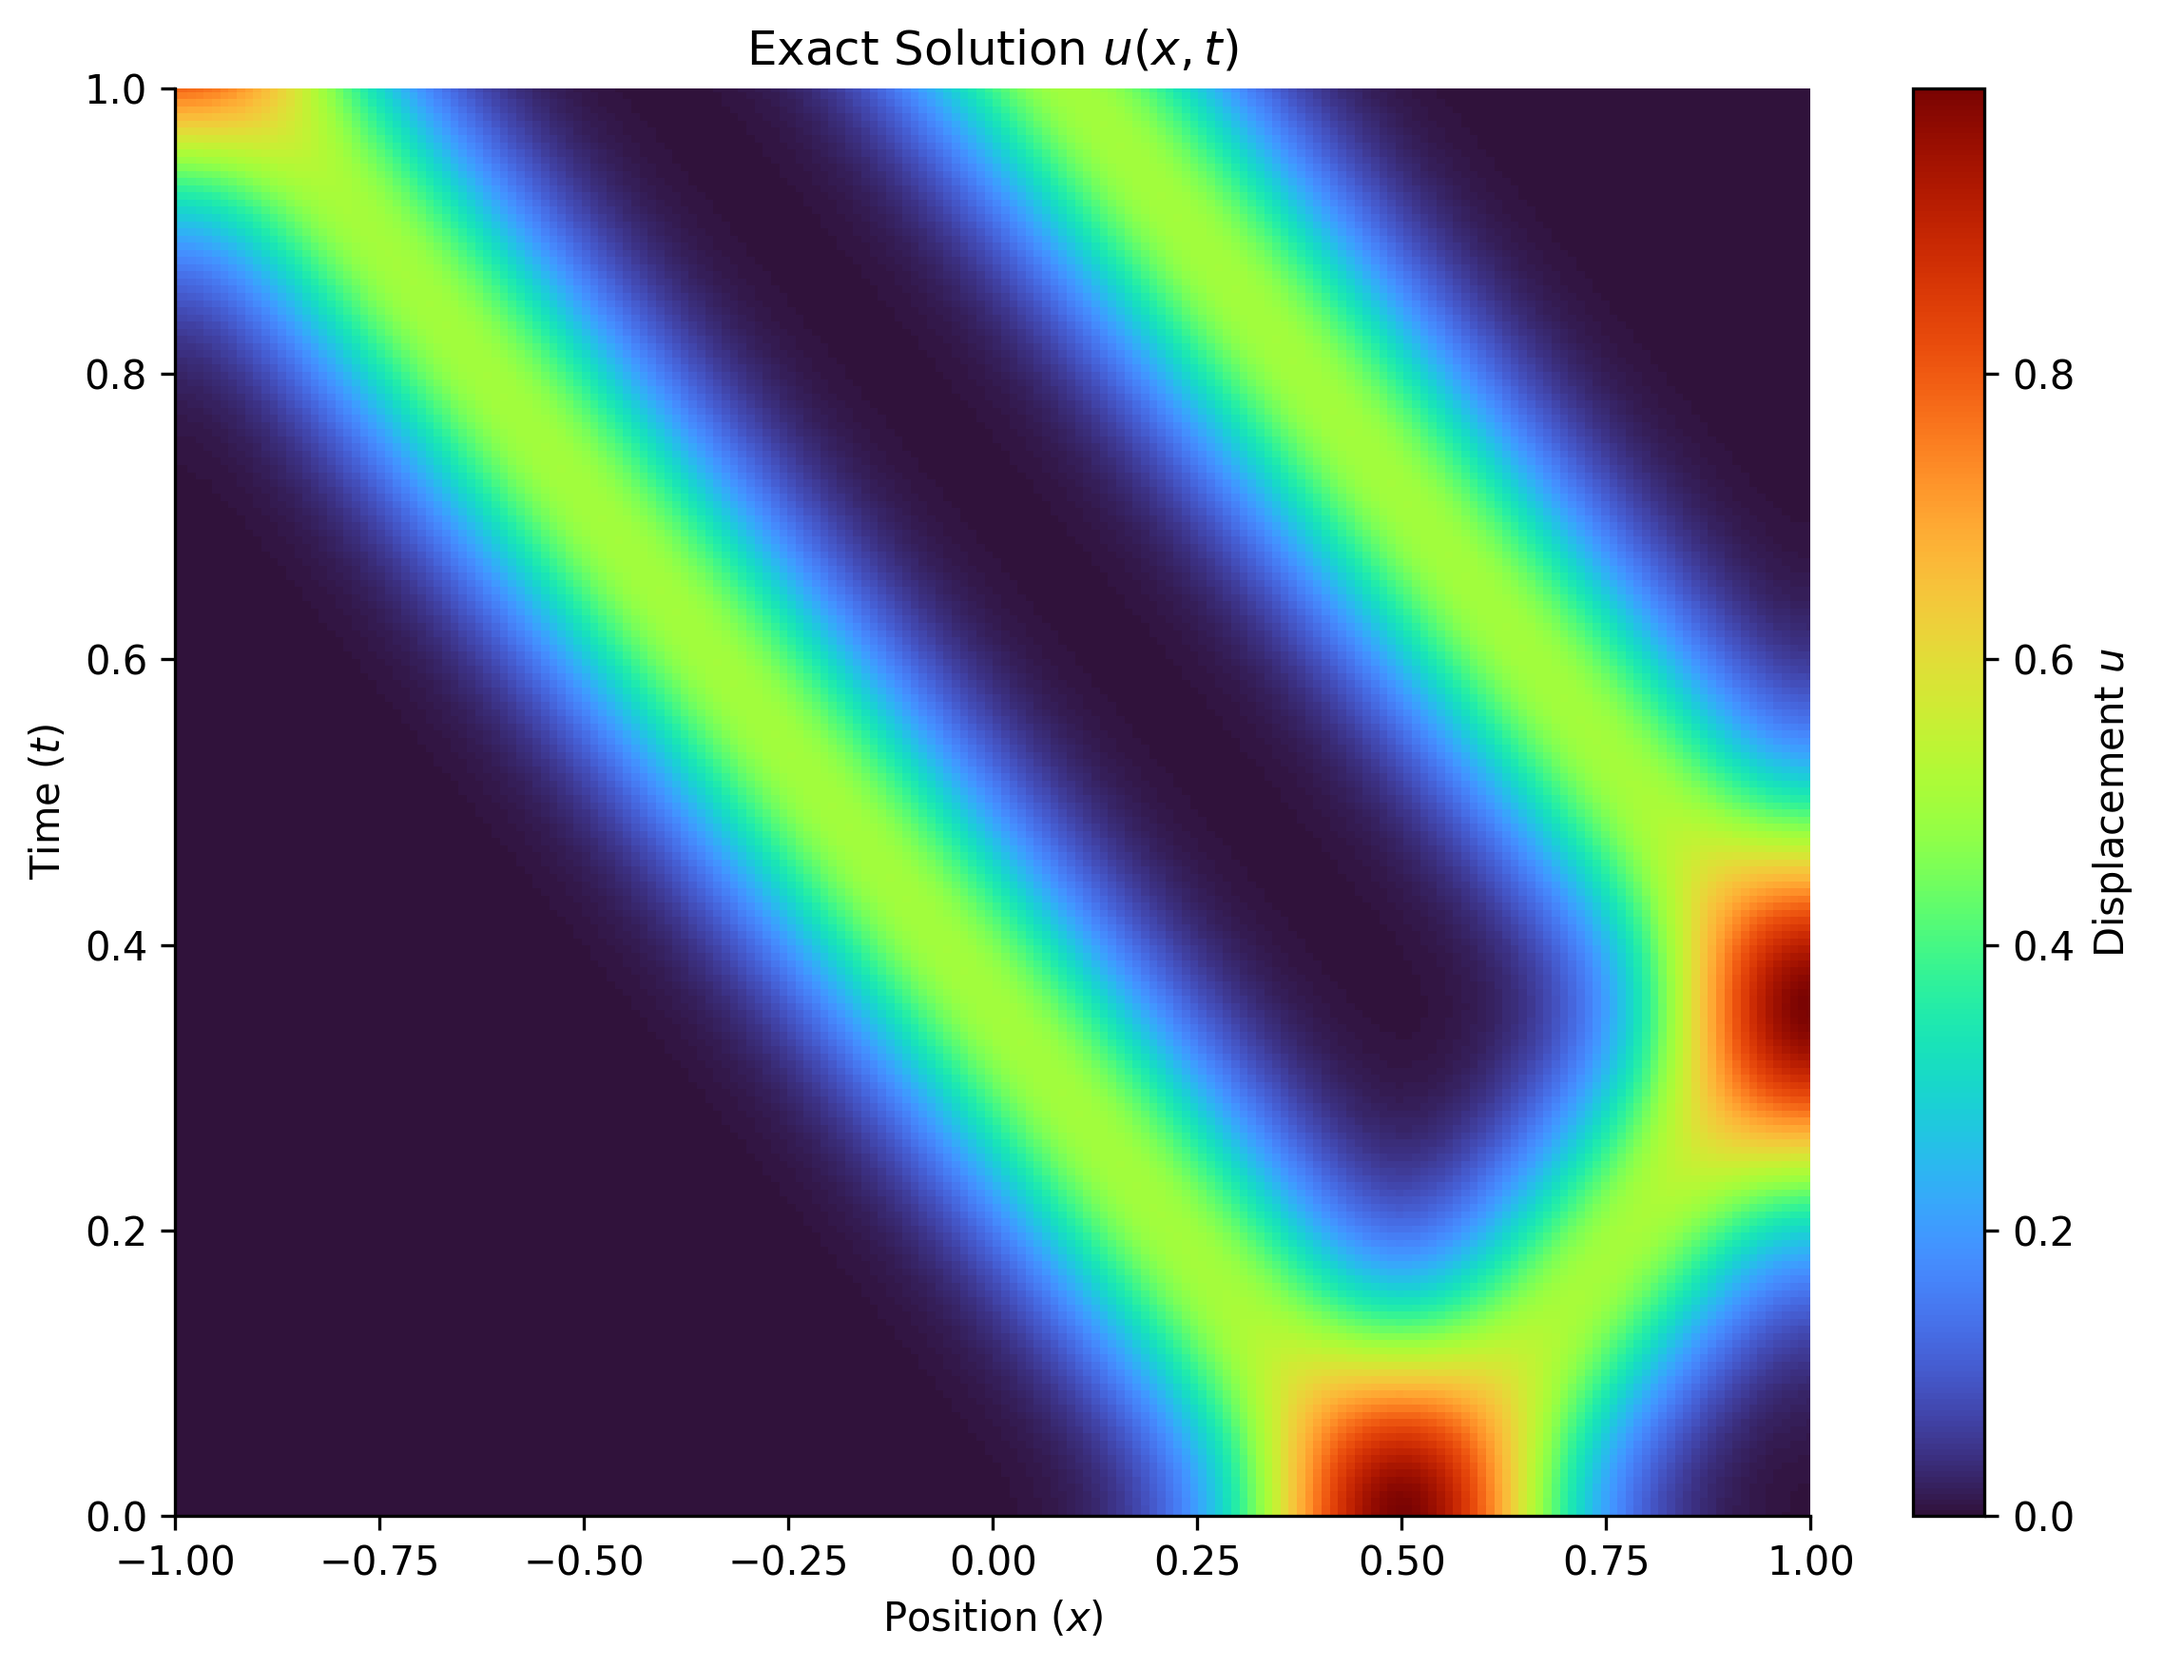
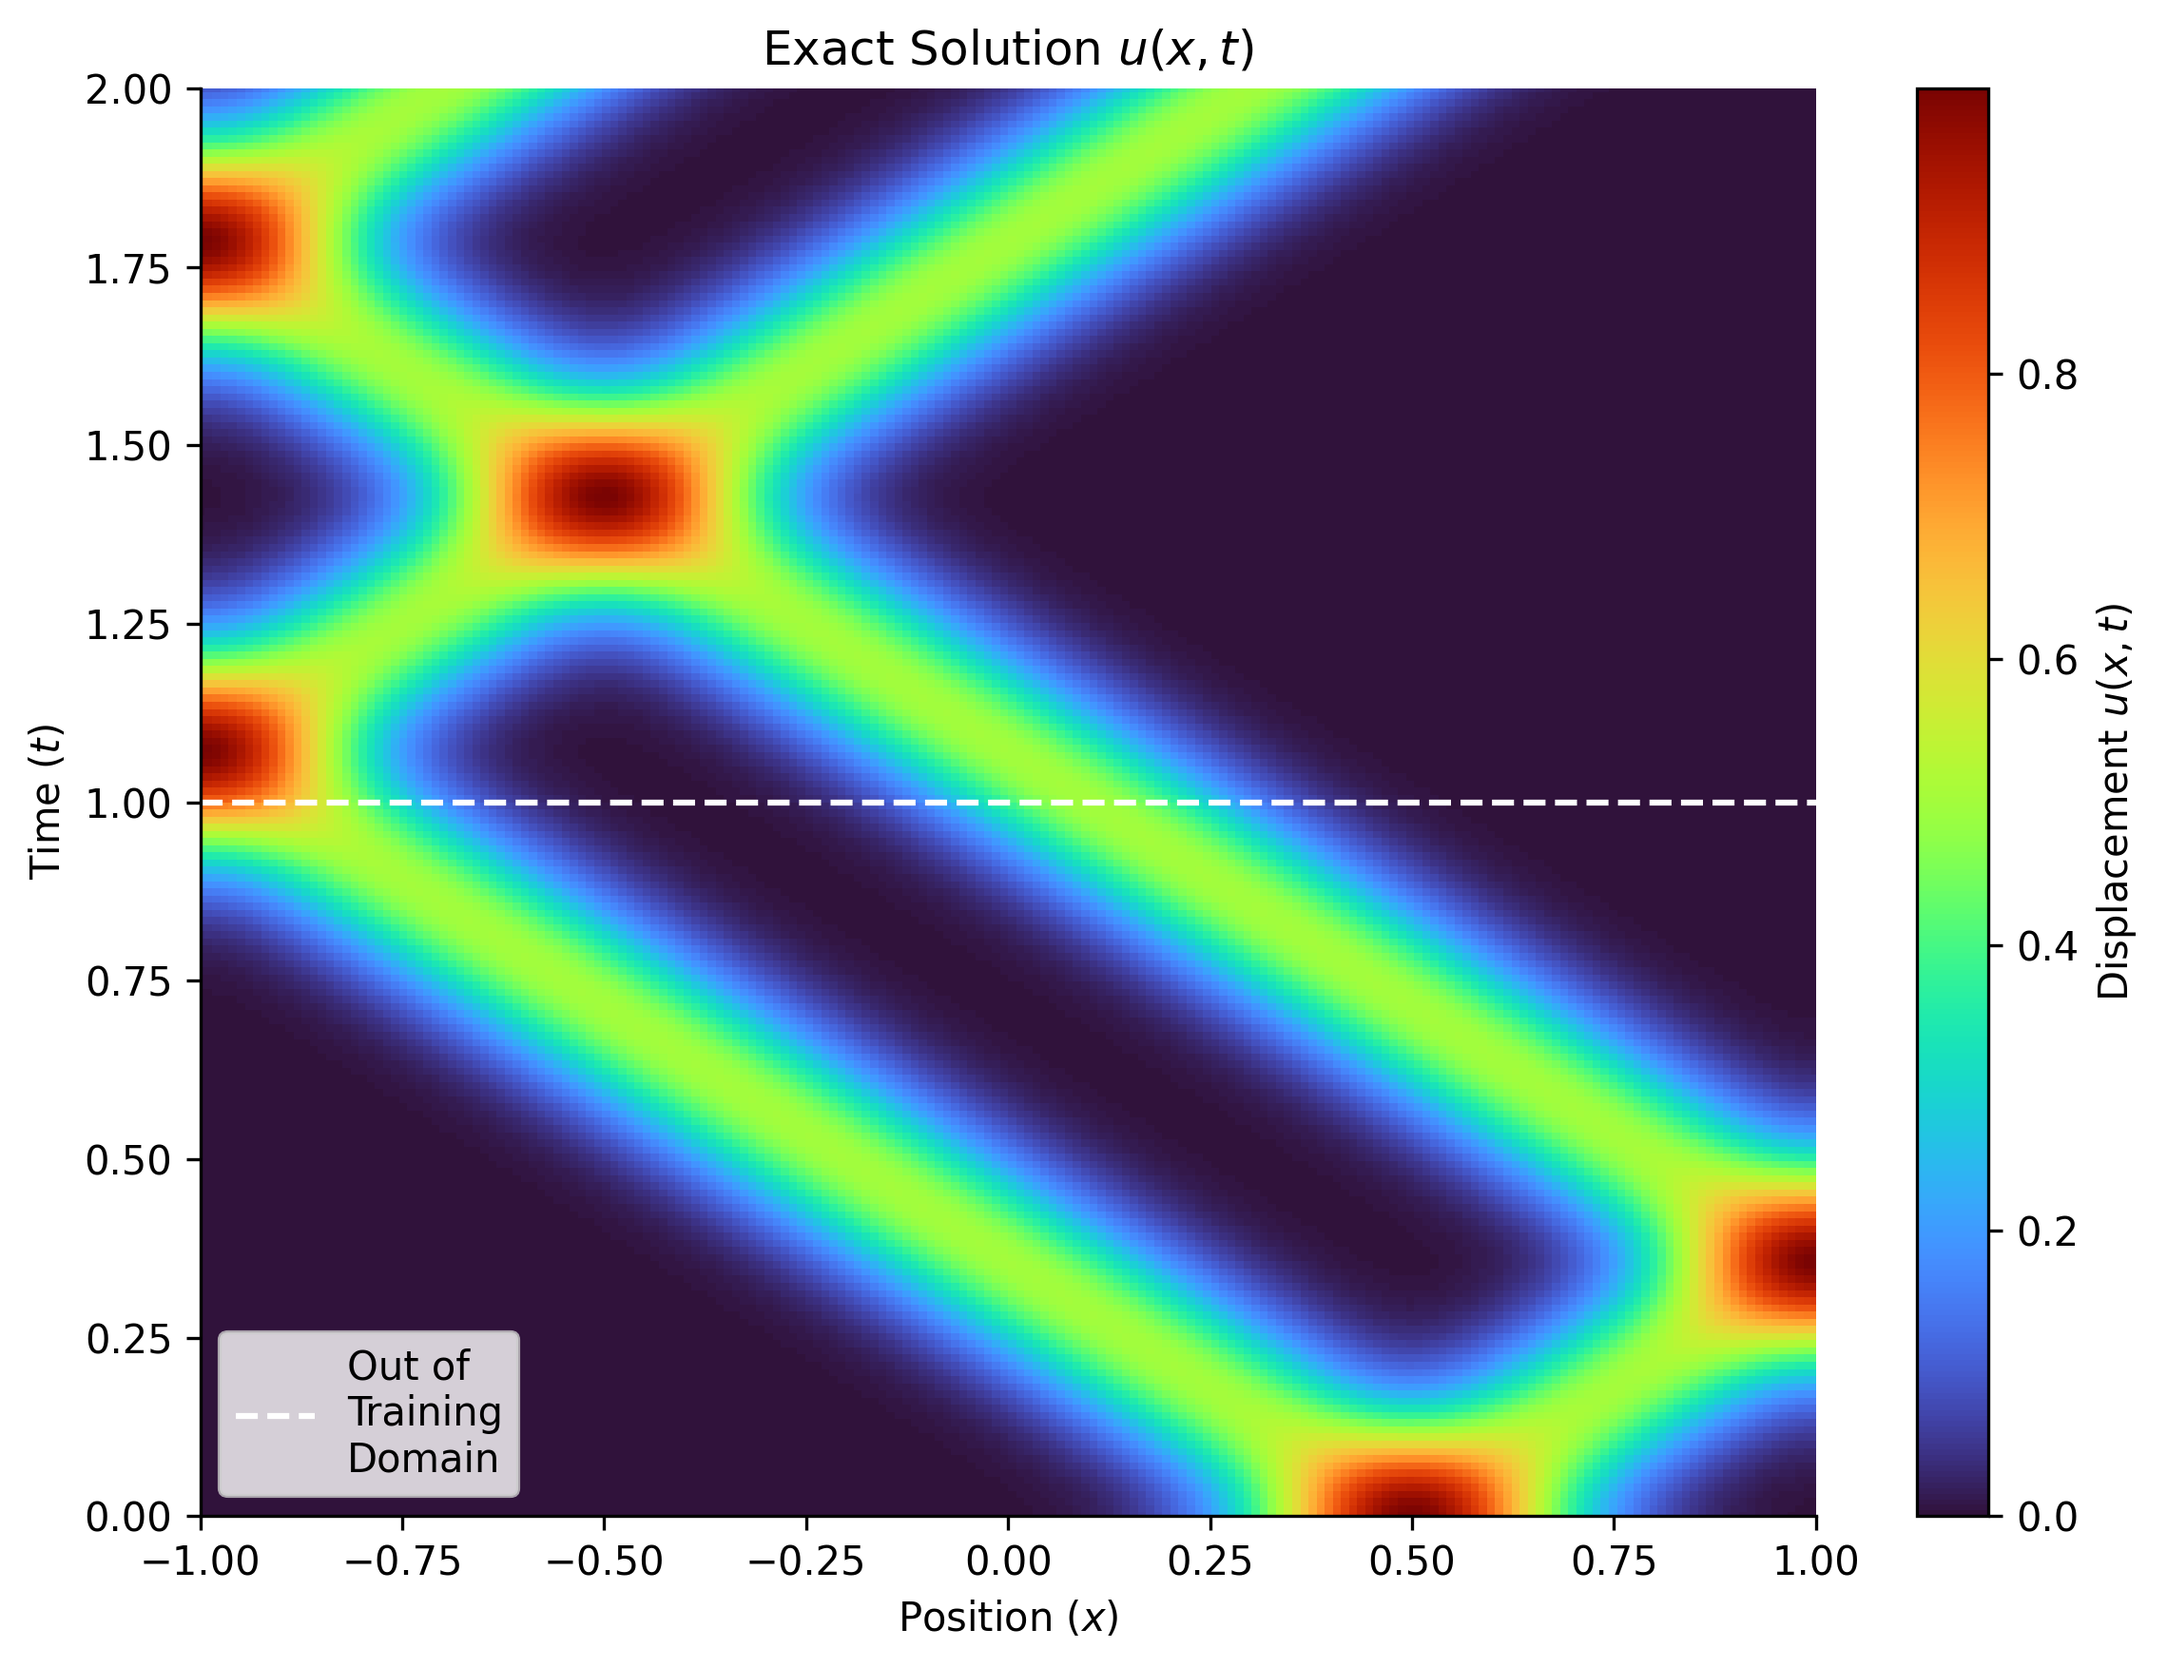
clean push to main with updated figures and code to produce said figures

diff --git a/PINN/predict_1D.py b/PINN/predict_1D.py
@@ -71,41 +71,41 @@ Error_grid = np.abs(U_exact - U_pinn)
 # Error_grid = U_exact - U_pinn
 
 # Result visualisation
-fig, axes = plt.subplots(1, 3, figsize=(18, 5))
+fig, axes = plt.subplots(1, 2, figsize=(12, 5))
 
 vmin = np.min(U_exact)
 vmax = np.max(U_exact)
 
 # Exact solution
-im1 = axes[0].pcolormesh(X_grid, T_grid, U_exact, cmap='turbo', vmin=vmin, vmax=vmax, shading='auto')
-axes[0].set_title("Exact Solution (Fourier)")
-axes[0].set_xlabel("x")
-axes[0].set_ylabel("t")
-plt.colorbar(im1, ax=axes[0])
+# im1 = axes[0].pcolormesh(X_grid, T_grid, U_exact, cmap='turbo', vmin=vmin, vmax=vmax, shading='auto')
+# axes[0].set_title("Exact Solution (Fourier)")
+# axes[0].set_xlabel("x")
+# axes[0].set_ylabel("t")
+# plt.colorbar(im1, ax=axes[0])
 
 # PINN prediction
-im2 = axes[1].pcolormesh(X_grid, T_grid, U_pinn, cmap='turbo', vmin=vmin, vmax=vmax, shading='auto')
-axes[1].set_title("PINN Prediction")
+im2 = axes[0].pcolormesh(X_grid, T_grid, U_pinn, cmap='turbo', vmin=vmin, vmax=vmax, shading='auto')
+axes[0].set_title("PINN Prediction")
+
+if T_MAX_PLOT > 1.0:
+    axes[0].axhline(y=T_MAX_PLOT - (T_MAX_PLOT - 1.0), color='white', linestyle='--', label='Out of\nTraining\nDomain')
+    axes[0].legend(loc = 'lower left')
+
+axes[0].set_xlabel("Position ($x$)")
+axes[0].set_ylabel("Time ($t$)")
+plt.colorbar(im2, ax=axes[0], label='Displacement $u(x,t)$')
+
+# Error plot
+im3 = axes[1].pcolormesh(X_grid, T_grid, Error_grid, cmap='inferno', shading='auto')
 
 if T_MAX_PLOT > 1.0:
     axes[1].axhline(y=T_MAX_PLOT - (T_MAX_PLOT - 1.0), color='white', linestyle='--', label='Out of\nTraining\nDomain')
     axes[1].legend(loc = 'lower left')
 
-axes[1].set_xlabel("x")
-axes[1].set_ylabel("t")
-plt.colorbar(im2, ax=axes[1])
-
-# Error plot
-im3 = axes[2].pcolormesh(X_grid, T_grid, Error_grid, cmap='inferno', shading='auto')
-
-if T_MAX_PLOT > 1.0:
-    axes[2].axhline(y=T_MAX_PLOT - (T_MAX_PLOT - 1.0), color='white', linestyle='--', label='Out of\nTraining\nDomain')
-    axes[2].legend(loc = 'lower left')
-
-axes[2].set_title("Absolute Error |Exact - PINN|")
-axes[2].set_xlabel("x")
-axes[2].set_ylabel("t")
-plt.colorbar(im3, ax=axes[2])
+axes[1].set_title("Absolute Error |Exact - PINN|")
+axes[1].set_xlabel("Position ($x$)")
+axes[1].set_ylabel("Time ($t$)")
+plt.colorbar(im3, ax=axes[1], label='Absolute Error')
 
 # im4 = axes[3].plot(np.log(loss_history))
 # axes[3].set_title("Training Loss History")

diff --git a/PINN/lib/dataset/exact_1D_grid.py b/PINN/lib/dataset/exact_1D_grid.py
@@ -11,7 +11,7 @@ WAVE_SPEED = 1.4       # c
 DOMAIN_START = -1.0
 DOMAIN_END = 1.0
 N_TERMS = 50           # Fourier series truncation
-T_MAX_PLOT = 1.0   # Max time for the y-axis
+T_MAX_PLOT = 2.0   # Max time for the y-axis
 
 # --- SOURCE 1 ---     
 X_CENTER_S1 = 0.5         # x_0
@@ -106,13 +106,21 @@ ax.set_xlabel("Position ($x$)")
 ax.set_ylabel("Time ($t$)")
 ax.set_title("Exact Solution $u(x,t)$")
 
+#Plotting the line indicating training domain limit
+if T_MAX_PLOT > 1.0:
+    ax.axhline(y=T_MAX_PLOT - (T_MAX_PLOT - 1.0), color='white', linestyle='--', label='Out of\nTraining\nDomain')
+    ax.legend(loc = 'lower left')
+
+
+
+
 # Remove standard spines to match the 'clean' look of the provided image if desired
 ax.spines['top'].set_visible(False)
 ax.spines['right'].set_visible(False)
 
 # Add a colorbar to show amplitude
 cbar = plt.colorbar(cplot, ax=ax)
-cbar.set_label("Displacement $u$")
+cbar.set_label("Displacement $u(x,t)$")
 
 plt.tight_layout()
 plt.savefig("exact_solution_1D_heatmap.png", bbox_inches='tight', dpi=300)
